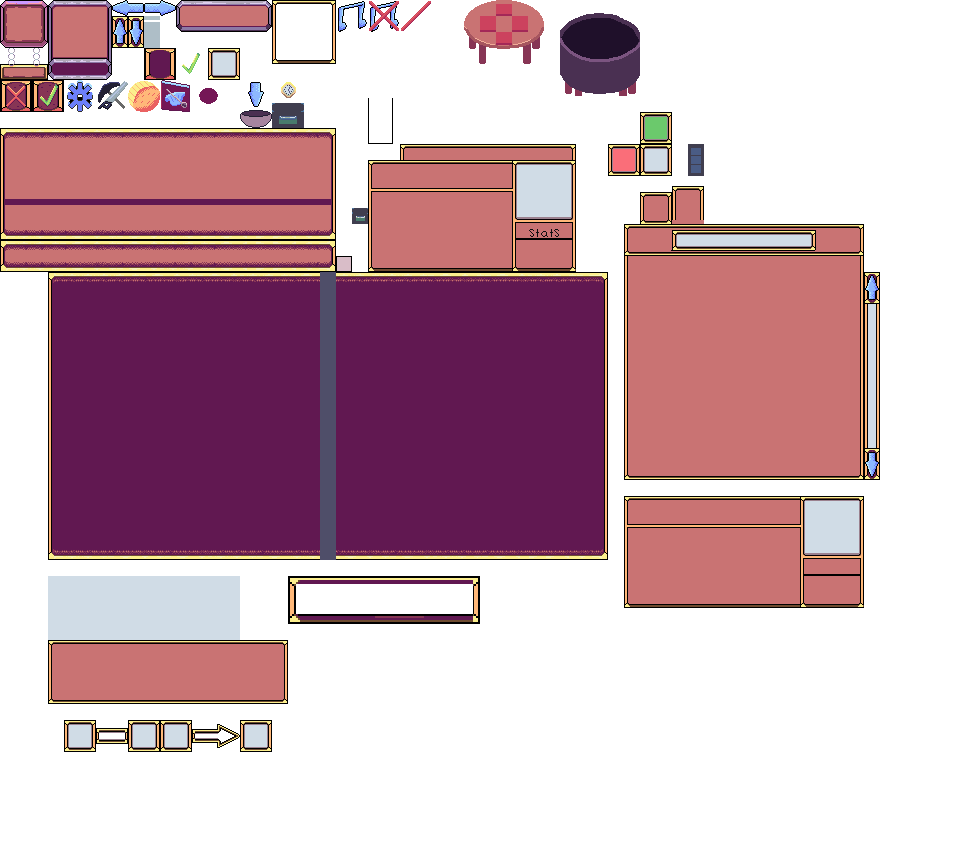
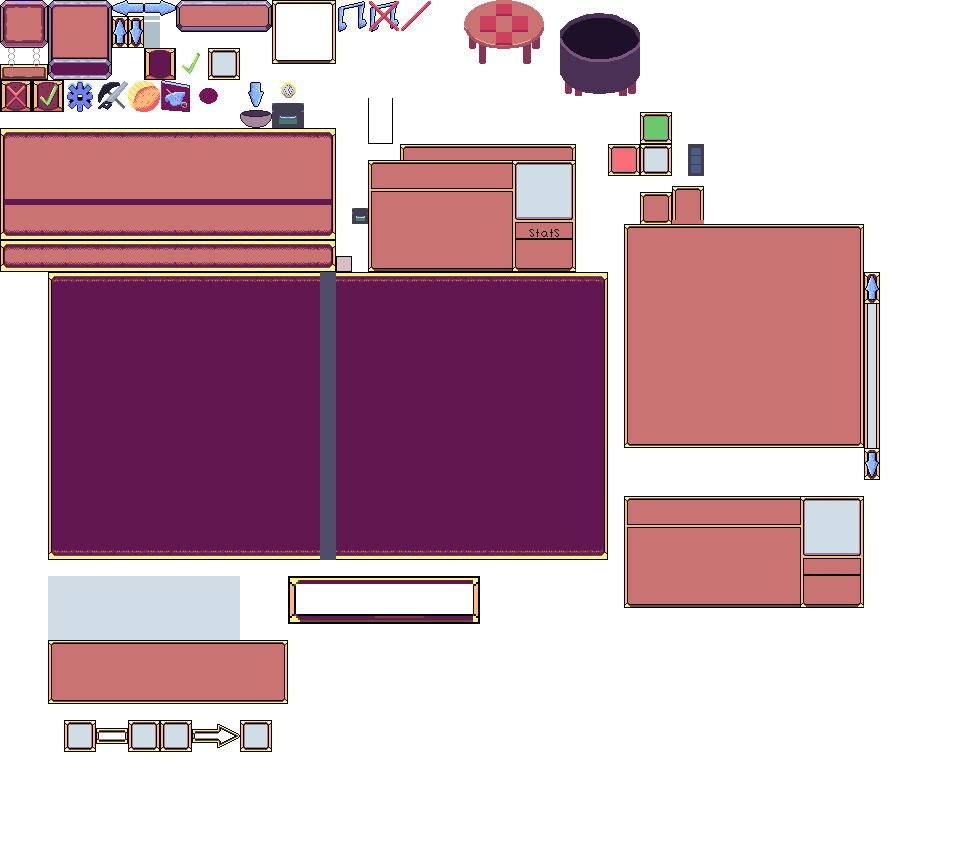
more crafting adjustments

Changed region(s): [[0.625, 0.5212, 0.9062, 0.5825], [0.6562, 0.2453, 0.9062, 0.3066]]

diff --git a/UIEngine/Classes/EscMenuStuff/EscMenu.cs b/UIEngine/Classes/EscMenuStuff/EscMenu.cs
@@ -32,7 +32,7 @@ namespace UIEngine.Classes.EscMenuStuff
 
         private Sprite _backGroundSprite;
 
-        public Rectangle BackGroundSource = new Rectangle(624, 224, 240, 256);
+        public Rectangle BackGroundSource = new Rectangle(624, 224, 240, 224);
 
         private Action _returnToMainMenuAction;
         private Vector2 _scale = new Vector2(2f, 2f);
@@ -56,7 +56,6 @@ namespace UIEngine.Classes.EscMenuStuff
 
         Dictionary<MenuSection, Button> _tabPairs;
 
-        public int TitleOffSet { get; set; }
 
         private Vector2 _tabForgroundOffset = new Vector2(4, 4);
 
@@ -139,10 +138,9 @@ namespace UIEngine.Classes.EscMenuStuff
         {
             TransferSections.Clear();
             TotalBounds = new Rectangle((int)Position.X, (int)Position.Y, (int)(BackGroundSource.Width * _scale.X), (int)(BackGroundSource.Height * _scale.Y));
-            TitleOffSet = (int)(32 * _scale.Y);
             _returnToMainMenuAction = new Action(ReturnToMainMenu);
             Vector2 escMenuPos = RectangleHelper.CenterRectangleOnScreen(TotalBounds);
-            escMenuPos = new Vector2(escMenuPos.X, escMenuPos.Y);
+            escMenuPos = new Vector2(escMenuPos.X, escMenuPos.Y - 32);
 
             TotalBounds = new Rectangle((int)escMenuPos.X, (int)escMenuPos.Y, TotalBounds.Width, TotalBounds.Height);
             _backGroundSprite = SpriteFactory.CreateUISprite(escMenuPos, BackGroundSource,

diff --git a/UIEngine/Classes/CraftingMenuStuff/CraftingPage.cs b/UIEngine/Classes/CraftingMenuStuff/CraftingPage.cs
@@ -20,7 +20,7 @@ namespace UIEngine.Classes.CraftingMenuStuff
         public CraftingCategory CraftingCategory { get; private set; }
 
 
-        private readonly int s_columns = 5;
+        private readonly int s_columns = 9;
         private Rectangle _backGroundSourceRectangle = new Rectangle(624, 256, 240, 224);
 
 
@@ -62,7 +62,7 @@ namespace UIEngine.Classes.CraftingMenuStuff
         {
 
             _stackPanel = new StackPanel(this, graphics, content, Position + _buttonOffSetStart, GetLayeringDepth(UILayeringDepths.Medium));
-            List<ItemData> dataList = ItemFactory.ItemDataByCraftingCategory(CraftingCategory);
+            List<ItemData> dataList = ItemFactory.ItemDataWithRecipe();
             Selectables = new InterfaceSection[(int)Math.Ceiling((float)dataList.Count / (float)s_columns), s_columns];
             CurrentSelectedPoint = new Point(0, 0);
             int index = 0;

diff --git a/UIEngine/Classes/EscMenuStuff/EscPrimary.cs b/UIEngine/Classes/EscMenuStuff/EscPrimary.cs
@@ -41,8 +41,7 @@ namespace UIEngine.Classes.EscMenuStuff
             ClearGrid();
             ChildSections.Clear();
             TotalBounds = parentSection.TotalBounds;
-            int offSet = (parentSection as EscMenu).TitleOffSet;
-            Position = new Vector2(TotalBounds.X, TotalBounds.Y + offSet);
+            Position = new Vector2(TotalBounds.X, TotalBounds.Y);
 
 
             _stackPanel = new StackPanel(this, graphics, content, Position, GetLayeringDepth(UILayeringDepths.Medium));

diff --git a/UIEngine/Classes/CraftingMenuStuff/CraftingMenu.cs b/UIEngine/Classes/CraftingMenuStuff/CraftingMenu.cs
@@ -52,8 +52,7 @@ namespace UIEngine.Classes.CraftingMenuStuff
             ClearGrid();
             ChildSections.Clear();
             TotalBounds = parentSection.TotalBounds;
-            int offSet = (parentSection as EscMenu).TitleOffSet;
-            Position = new Vector2(TotalBounds.X, TotalBounds.Y + offSet);
+            Position = new Vector2(TotalBounds.X, TotalBounds.Y);
 
 
             _craftingPage = new CraftingPage(this, CraftingCategory.Tool, this, graphics, content, Position,

diff --git a/UIEngine/Classes/CraftingMenuStuff/RecipeBox.cs b/UIEngine/Classes/CraftingMenuStuff/RecipeBox.cs
@@ -65,7 +65,7 @@ namespace UIEngine.Classes.CraftingMenuStuff
             _currentItem = itemData;
 
             LoadContent();
-            _nameText = TextFactory.CreateUIText(_currentItem.Name, GetLayeringDepth(UILayeringDepths.Medium));
+            _nameText = TextFactory.CreateUIText(_currentItem.ProperName, GetLayeringDepth(UILayeringDepths.Medium));
             _nameText.ForceSetPosition(_nameTextPosition);
 
             _mayCraft = true;

diff --git a/ItemEngine/Classes/ItemFactory.cs b/ItemEngine/Classes/ItemFactory.cs
@@ -35,6 +35,11 @@ namespace ItemEngine.Classes
         {
             return ItemData.Where(x => x.RecipeInfo != null && x.RecipeInfo.CraftingCategory == craftingCategory).ToList();
         }
+
+        public static List<ItemData> ItemDataWithRecipe()
+        {
+            return ItemData.Where(x => x.RecipeInfo != null).ToList();
+        }
         public static void LoadContent(ContentManager content)
         {
 

diff --git a/DataModels/ItemStuff/ItemData.cs b/DataModels/ItemStuff/ItemData.cs
@@ -41,7 +41,8 @@ namespace DataModels.ItemStuff
         public int Id { get; set; }
 
         public string Name { get; set; }
-         
+        public string ProperName => Name.Replace("_", " ");
+
         public string Description { get; set; }
 
         public int FuelValue { get; set; }
